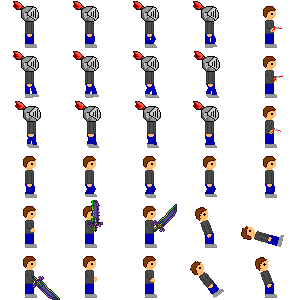
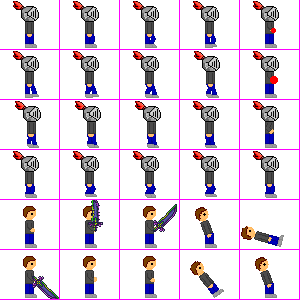
Added new features. - Player can now shoot projectiles.

Changed region(s): [[0.0, 0.0, 1.0, 1.0], [0.84, 0.0, 0.93, 0.12]]

diff --git a/WrathOfJohn/WrathOfJohn/Player.cs b/WrathOfJohn/WrathOfJohn/Player.cs
@@ -22,9 +22,35 @@ namespace WrathOfJohn
 		/// <summary>
 		/// This is the animationSet list for the player.
 		/// </summary>
-		public List<AnimationSet> animationSetList = new List<AnimationSet>();
 		public List<Collision.MapSegment> playerSegments = new List<Collision.MapSegment>();
-		public string collided = "";
+		bool shot = false;
+		public bool HasShot
+		{
+			get
+			{
+				return shot;
+			}
+		}
+		float fireTime = 100;
+		public float FireTime
+		{
+			get
+			{
+				return fireTime;
+			}
+		}
+		bool canShoot = true;
+		public bool CanShoot
+		{
+			get
+			{
+				return canShoot;
+			}
+		}
+		List<Sprite.AnimationSet> projectileAnimationSet = new List<Sprite.AnimationSet>();
+		List<Projectile> projectileList = new List<Projectile>();
+		bool projectileListCreated = false;
+		bool createNew = true;
 
 		/// <summary>
 		/// This is to create the Player class.
@@ -35,11 +61,13 @@ namespace WrathOfJohn
 		/// <param name="left">The left key</param>
 		/// <param name="right">The right key</param>
 		/// <param name="jump">The jump key</param>
+		/// <param name="attack"></param>
 		/// <param name="gravity2">The force of gravity</param>
+		/// <param name="color"></param>
 		/// <param name="animationSetList">The set of animations</param>
-        public Player(Texture2D texture, Vector2 position, Game1 game, Keys left, Keys right, Keys jump, float gravity2, Color color, List<AnimationSet> animationSetList) : base(position, color, animationSetList)
+        public Player(Texture2D texture, Vector2 position, Game1 game, Keys left, Keys right, Keys jump, Keys attack, float gravity2, Color color, List<AnimationSet> animationSetList) : base(position, color, animationSetList)
         {
-            this.animationSetList = animationSetList;
+            animationSets = animationSetList;
 			this.color = color;
 			movementType = MovementType.PLATFORMER;
 			aiType = AIType.PLAYER;
@@ -51,7 +79,7 @@ namespace WrathOfJohn
 			MovementKeys.Add(right);
 			MovementKeys.Add(Keys.None);
 			MovementKeys.Add(jump);
-			MovementKeys.Add(Keys.None);
+			MovementKeys.Add(attack);
             canMove = true;
             speed = 1;
 			ground = new Vector2(0, position.Y);
@@ -73,6 +101,17 @@ namespace WrathOfJohn
 			playerSegments[2] = new Collision.MapSegment(new Point((int)position.X + 40, (int)position.Y + 5), new Point((int)position.X + 40, (int)position.Y + 49));
 			playerSegments[3] = new Collision.MapSegment(new Point((int)position.X + 20, (int)position.Y + 49), new Point((int)position.X + 40, (int)position.Y + 49));
 
+			if (projectileListCreated == false)
+			{
+				projectileAnimationSet.Add(new AnimationSet("IDLE", myGame.gameManager.projectileTexture, new Point(25, 25), new Point(1, 1), new Point(0, 0), 0));
+				projectileListCreated = true;
+			}
+
+			foreach (Projectile p in projectileList)
+			{
+				p.Update(gameTime);
+			}
+
             base.Update(gameTime);
         }
 
@@ -83,6 +122,11 @@ namespace WrathOfJohn
 		/// <param name="spriteBatch">The spriteBatch to draw with.</param>
         public override void Draw(GameTime gameTime, SpriteBatch spriteBatch)
         {
+			foreach (Projectile p in projectileList)
+			{
+				p.Draw(gameTime, spriteBatch);
+			}
+
             base.Draw(gameTime, spriteBatch);
         }
 
@@ -91,22 +135,18 @@ namespace WrathOfJohn
 			if (myGame.gameManager.mapSegments[0].point1.X >= playerSegments[0].point1.X)
 			{
 				position.X = myGame.gameManager.mapSegments[0].point1.X - ((currentAnimation.frameSize.X - 20) / 2);
-				collided = "Collide=True";
 			}
 			if (myGame.gameManager.mapSegments[1].point1.Y >= playerSegments[1].point1.Y)
 			{
 				position.Y = myGame.gameManager.mapSegments[1].point1.Y + 49;
-				collided = "Collide=True";
 			}
 			if (myGame.gameManager.mapSegments[2].point1.X <= playerSegments[2].point1.X)
 			{
 				position.X = myGame.gameManager.mapSegments[2].point1.X - ((currentAnimation.frameSize.X - 20));
-				collided = "Collide=True";
 			}
 			if (myGame.gameManager.mapSegments[3].point1.Y <= playerSegments[3].point1.Y)
 			{
 				position.Y = myGame.gameManager.mapSegments[3].point1.Y - 49;
-				collided = "Collide=True";
 			}
 
 			base.UpdateMovement();
@@ -135,8 +175,14 @@ namespace WrathOfJohn
 				flipSprite(false);
 			}
 
+			if ((myGame.keyboardState.IsKeyDown(MovementKeys[5]) && !myGame.previousKeyboardState.IsKeyDown(MovementKeys[5])) && (!myGame.keyboardState.IsKeyDown(MovementKeys[0]) && !myGame.keyboardState.IsKeyDown(MovementKeys[2])))
+			{
+				SetAnimation("SHOOT");
+				ShootBeam();
+			}
+
 			// To set the animation to idle.
-			if ((!myGame.keyboardState.IsKeyDown(MovementKeys[0]) && !myGame.keyboardState.IsKeyDown(MovementKeys[2])) || isFalling)
+			if ((!myGame.keyboardState.IsKeyDown(MovementKeys[0]) && !myGame.keyboardState.IsKeyDown(MovementKeys[2]) && !myGame.keyboardState.IsKeyDown(MovementKeys[5])) || isFalling)
 			{
 				SetAnimation("IDLE");
 			}
@@ -145,6 +191,26 @@ namespace WrathOfJohn
 		public List<Collision.MapSegment> getPlayerSgements()
 		{
 			return playerSegments;
+		}
+
+		public void ShootBeam()
+		{
+			foreach (Projectile p in projectileList)
+			{
+				if (!p.isVisible)
+				{
+					createNew = true;
+					projectileList.RemoveAt(0);
+					break;
+				}
+			}
+
+			if (createNew == true)
+			{
+				Projectile projectile = new Projectile(new Vector2(position.X + 35, position.Y + ((projectileAnimationSet[0].frameSize.Y - 4) / 2) + 8), Color.White, projectileAnimationSet, this, myGame);
+				projectile.Fire();
+				projectileList.Add(projectile);
+			}
 		}
     }
 }

diff --git a/WrathOfJohn/WrathOfJohn/GameManager.cs b/WrathOfJohn/WrathOfJohn/GameManager.cs
@@ -49,6 +49,7 @@ namespace WrathOfJohn
 		Label debugLabel2;
 		Label debugLabel3;
 		Label debugLabel4;
+		Label debugLabel5;
 		public List<Collision.MapSegment> mapSegments = new List<Collision.MapSegment>();
 		List<Collision.MapSegment> playerSegments = new List<Collision.MapSegment>();
 		string firstLine1;
@@ -60,6 +61,8 @@ namespace WrathOfJohn
 		string firstLine7;
 		string firstLine8;
 		string firstLine9;
+		public string firstLine10 = "()";
+		public Texture2D projectileTexture;
 
 		/// <summary>
 		/// This is to create the Game Manager.
@@ -95,18 +98,21 @@ namespace WrathOfJohn
 
             playerTexture = Game.Content.Load<Texture2D>(@"Images\players\player");
             debugDotTexture = Game.Content.Load<Texture2D>(@"Images\debugStuff\line");
+			projectileTexture = Game.Content.Load<Texture2D>(@"Images\projectiles\beam1");
 
             tempPlayerAnimationSetList.Add(new Sprite.AnimationSet("IDLE", playerTexture, new Point(60, 50), new Point(1, 1), new Point(0, 0), 1000));
             tempPlayerAnimationSetList.Add(new Sprite.AnimationSet("WALK", playerTexture, new Point(60, 50), new Point(4, 3), new Point(0, 0), 50));
-            tempPlayerAnimationSetList.Add(new Sprite.AnimationSet("JUMP", playerTexture, new Point(60, 50), new Point(4, 1), new Point(0, 150), 100));
+			tempPlayerAnimationSetList.Add(new Sprite.AnimationSet("JUMP", playerTexture, new Point(60, 50), new Point(4, 1), new Point(0, 150), 100));
+			tempPlayerAnimationSetList.Add(new Sprite.AnimationSet("SHOOT", playerTexture, new Point(60, 50), new Point(1, 3), new Point(240, 0), 250));
 
-            player = new Player(playerTexture, new Vector2((myGame.windowSize.X - 60) / 2, (myGame.windowSize.Y - 50) / 2), myGame, Keys.A, Keys.D, Keys.Space, 2f, Color.White, tempPlayerAnimationSetList);
+            player = new Player(playerTexture, new Vector2((myGame.windowSize.X - 60) / 2, (myGame.windowSize.Y - 50) / 2), myGame, Keys.A, Keys.D, Keys.Space, Keys.E, 2f, Color.White, tempPlayerAnimationSetList);
 
 			debugLabel = new Label(Vector2.Zero, myGame.debugFont, 1f, Color.Black, "");
 			debugLabel1 = new Label(new Vector2(0, 10), myGame.debugFont, 1f, Color.Black, "");
 			debugLabel2 = new Label(new Vector2(0, 20), myGame.debugFont, 1f, Color.Black, "");
 			debugLabel3 = new Label(new Vector2(0, 30), myGame.debugFont, 1f, Color.Black, "");
 			debugLabel4 = new Label(new Vector2(0, 40), myGame.debugFont, 1f, Color.Black, "");
+			debugLabel5 = new Label(new Vector2(0, 50), myGame.debugFont, 1f, Color.Black, "");
 
             base.LoadContent();
         }
@@ -136,6 +142,7 @@ namespace WrathOfJohn
 			debugLabel2.Update(gameTime, firstLine4 + "   " + firstLine5);
 			debugLabel3.Update(gameTime, firstLine6 + "   " + firstLine7);
 			debugLabel4.Update(gameTime, firstLine8 + "   " + firstLine9);
+			debugLabel5.Update(gameTime, firstLine10);
 
             base.Update(gameTime);
         }
@@ -166,6 +173,7 @@ namespace WrathOfJohn
 				debugLabel2.Draw(gameTime, spriteBatch);
 				debugLabel3.Draw(gameTime, spriteBatch);
 				debugLabel4.Draw(gameTime, spriteBatch);
+				debugLabel5.Draw(gameTime, spriteBatch);
             spriteBatch.End();
 
             base.Draw(gameTime);

diff --git a/WrathOfJohn/WrathOfJohn/Projectile.cs b/WrathOfJohn/WrathOfJohn/Projectile.cs
@@ -1,0 +1,109 @@
+using System;
+using System.Collections.Generic;
+using System.Linq;
+using System.Text;
+using Microsoft.Xna.Framework;
+using Microsoft.Xna.Framework.Audio;
+using Microsoft.Xna.Framework.Content;
+using Microsoft.Xna.Framework.GamerServices;
+using Microsoft.Xna.Framework.Graphics;
+using Microsoft.Xna.Framework.Input;
+using Microsoft.Xna.Framework.Media;
+using VoidEngine;
+
+namespace WrathOfJohn
+{
+	class Projectile : Sprite
+	{
+		Game1 myGame;
+		List<Collision.MapSegment> projectileSegments = new List<Collision.MapSegment>();
+		Vector2 startPosition;
+		public Vector2 StartPosition
+		{
+			get
+			{
+				return startPosition;
+			}
+		}
+		float maxDistance = 0f;
+		public float MaxDistance
+		{
+			get
+			{
+				return maxDistance;
+			}
+		}
+		bool visible = false;
+		public bool isVisible
+		{
+			get
+			{
+				return visible;
+			}
+		}
+
+		public override void Update(GameTime gameTime)
+		{
+			UpdateMovement();
+
+			base.Update(gameTime);
+		}
+
+		public override void Draw(GameTime gameTime, SpriteBatch spriteBatch)
+		{
+			if (visible)
+			{
+				base.Draw(gameTime, spriteBatch);
+			}
+		}
+
+		public Projectile(Vector2 startPosition, Color color, List<AnimationSet> animationSetList, Player player, Game1 game) : base(startPosition, color, animationSetList)
+		{
+			myGame = game;
+			this.startPosition = startPosition;
+			position = startPosition;
+			color = Color.White;
+			animationSets = animationSetList;
+
+			if (player.flipped == SpriteEffects.FlipHorizontally)
+			{
+				position.X = position.X - 25; 
+				direction = new Vector2(-1, 0);
+			}
+			else
+			{
+				direction = new Vector2(1, 0);
+			}
+		}
+
+		public void Fire()
+		{
+			speed = 1;
+			maxDistance = Vector2.Distance(startPosition, new Vector2(myGame.windowSize.X + 50, startPosition.Y));
+
+			visible = true;
+
+			SetAnimation("IDLE");
+
+			projectileSegments.Add(new Collision.MapSegment(new Point((int)position.X, (int)position.Y), new Point((int)position.X + currentAnimation.frameSize.X, (int)position.Y)));
+			projectileSegments.Add(new Collision.MapSegment(new Point((int)position.X + currentAnimation.frameSize.X, (int)position.Y), new Point((int)position.X + currentAnimation.frameSize.X, (int)position.Y + currentAnimation.frameSize.Y)));
+			projectileSegments.Add(new Collision.MapSegment(new Point((int)position.X + currentAnimation.frameSize.X, (int)position.Y + currentAnimation.frameSize.Y), new Point((int)position.X, (int)position.Y + currentAnimation.frameSize.Y)));
+			projectileSegments.Add(new Collision.MapSegment(new Point((int)position.X, (int)position.Y + currentAnimation.frameSize.Y), new Point((int)position.X, (int)position.Y)));
+		}
+
+		public override void UpdateMovement()
+		{
+			base.UpdateMovement();
+
+			if (Vector2.Distance(startPosition, position) > maxDistance)
+			{
+				visible = false;
+			}
+			
+			if (visible == true)
+			{
+				position += direction * speed;
+			}
+		}
+	}
+}

diff --git a/WrathOfJohn/VoidEngine/VoidEngine/Sprite.cs b/WrathOfJohn/VoidEngine/VoidEngine/Sprite.cs
@@ -241,7 +241,6 @@ namespace VoidEngine
 		public Vector2 ground;
 		Rectangle destinationRectangle;
 		Rectangle sourceRectangle;
-		int typeset = 0;
 		public Color color;
 
         /// <summary>
@@ -254,19 +253,8 @@ namespace VoidEngine
             animationSets = animationSetList;
             this.position = position;
             lastFrameTime = 0;
-			typeset = 1;
 			this.color = color;
         }
-
-		public Sprite(Rectangle DestinationRectangle, Rectangle SourceRecangle, Color color, Texture2D texture)
-		{
-			animationSets.Add(new AnimationSet("IDLE", texture, new Point(DestinationRectangle.Width - SourceRecangle.Width + 1, DestinationRectangle.Height - SourceRecangle.Height + 1), new Point(1, 1), new Point(0, 0), 0));
-			destinationRectangle = DestinationRectangle;
-			sourceRectangle = SourceRecangle;
-			lastFrameTime = 0;
-			this.color = color;
-			typeset = 2;
-		}
 
         /// <summary>
         /// Put this in the Update function
@@ -313,14 +301,7 @@ namespace VoidEngine
         /// <param name="spriteBatch">The main SpriteBatch</param>
         public virtual void Draw(GameTime gameTime, SpriteBatch spriteBatch)
         {
-			if (typeset == 1)
-			{
-				spriteBatch.Draw(currentAnimation.texture, this.position, new Rectangle(currentAnimation.startPosition.X + (currentFrame.X * currentAnimation.frameSize.X), currentAnimation.startPosition.Y + (currentFrame.Y * currentAnimation.frameSize.Y), currentAnimation.frameSize.X, currentAnimation.frameSize.Y), color, 0f, Vector2.Zero, 1f, flipped, 0);
-			}
-			if (typeset == 2)
-			{
-				spriteBatch.Draw(currentAnimation.texture, new Rectangle(destinationRectangle.X, destinationRectangle.Y, sourceRectangle.X, sourceRectangle.Y), color);
-			}
+			spriteBatch.Draw(currentAnimation.texture, this.position, new Rectangle(currentAnimation.startPosition.X + (currentFrame.X * currentAnimation.frameSize.X), currentAnimation.startPosition.Y + (currentFrame.Y * currentAnimation.frameSize.Y), currentAnimation.frameSize.X, currentAnimation.frameSize.Y), color, 0f, Vector2.Zero, 1f, flipped, 0);
 		}
 
         /// <summary>

diff --git a/WrathOfJohn/WrathOfJohn/Game1.cs b/WrathOfJohn/WrathOfJohn/Game1.cs
@@ -30,6 +30,7 @@ namespace WrathOfJohn
         public enum GameLevels { SPLASH, MENU, GAME }
 
         public SplashScreenManager splashScreenManager;
+		public float elapsedTime, previousElapsedTime;
         public GameManager gameManager;
         public MenuManager menuManager;
         public CheckpointManager checkpointManager;
@@ -127,11 +128,13 @@ namespace WrathOfJohn
 
             keyboardState = Keyboard.GetState();
 
+			elapsedTime = gameTime.ElapsedGameTime.Milliseconds;
+
             // TODO: Add your update logic here
 
             base.Update(gameTime);
 
-
+			previousElapsedTime = elapsedTime;
 			previousKeyboardState = keyboardState;
         }
 
